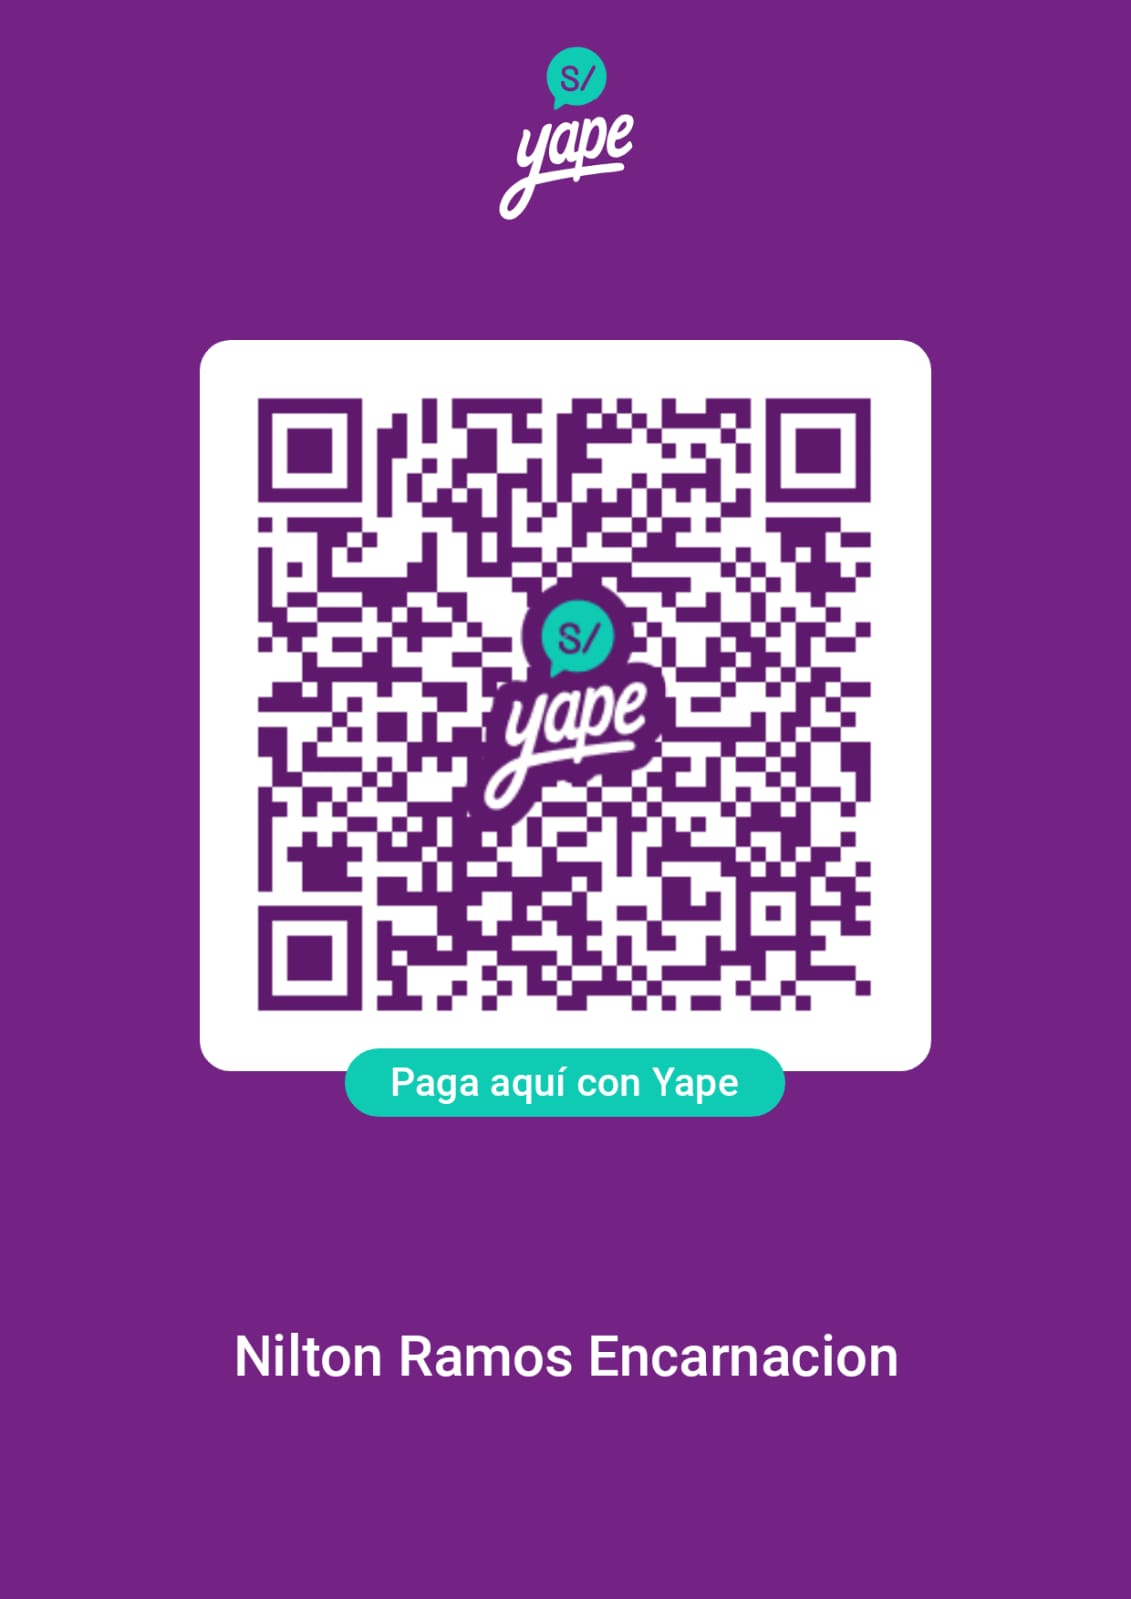
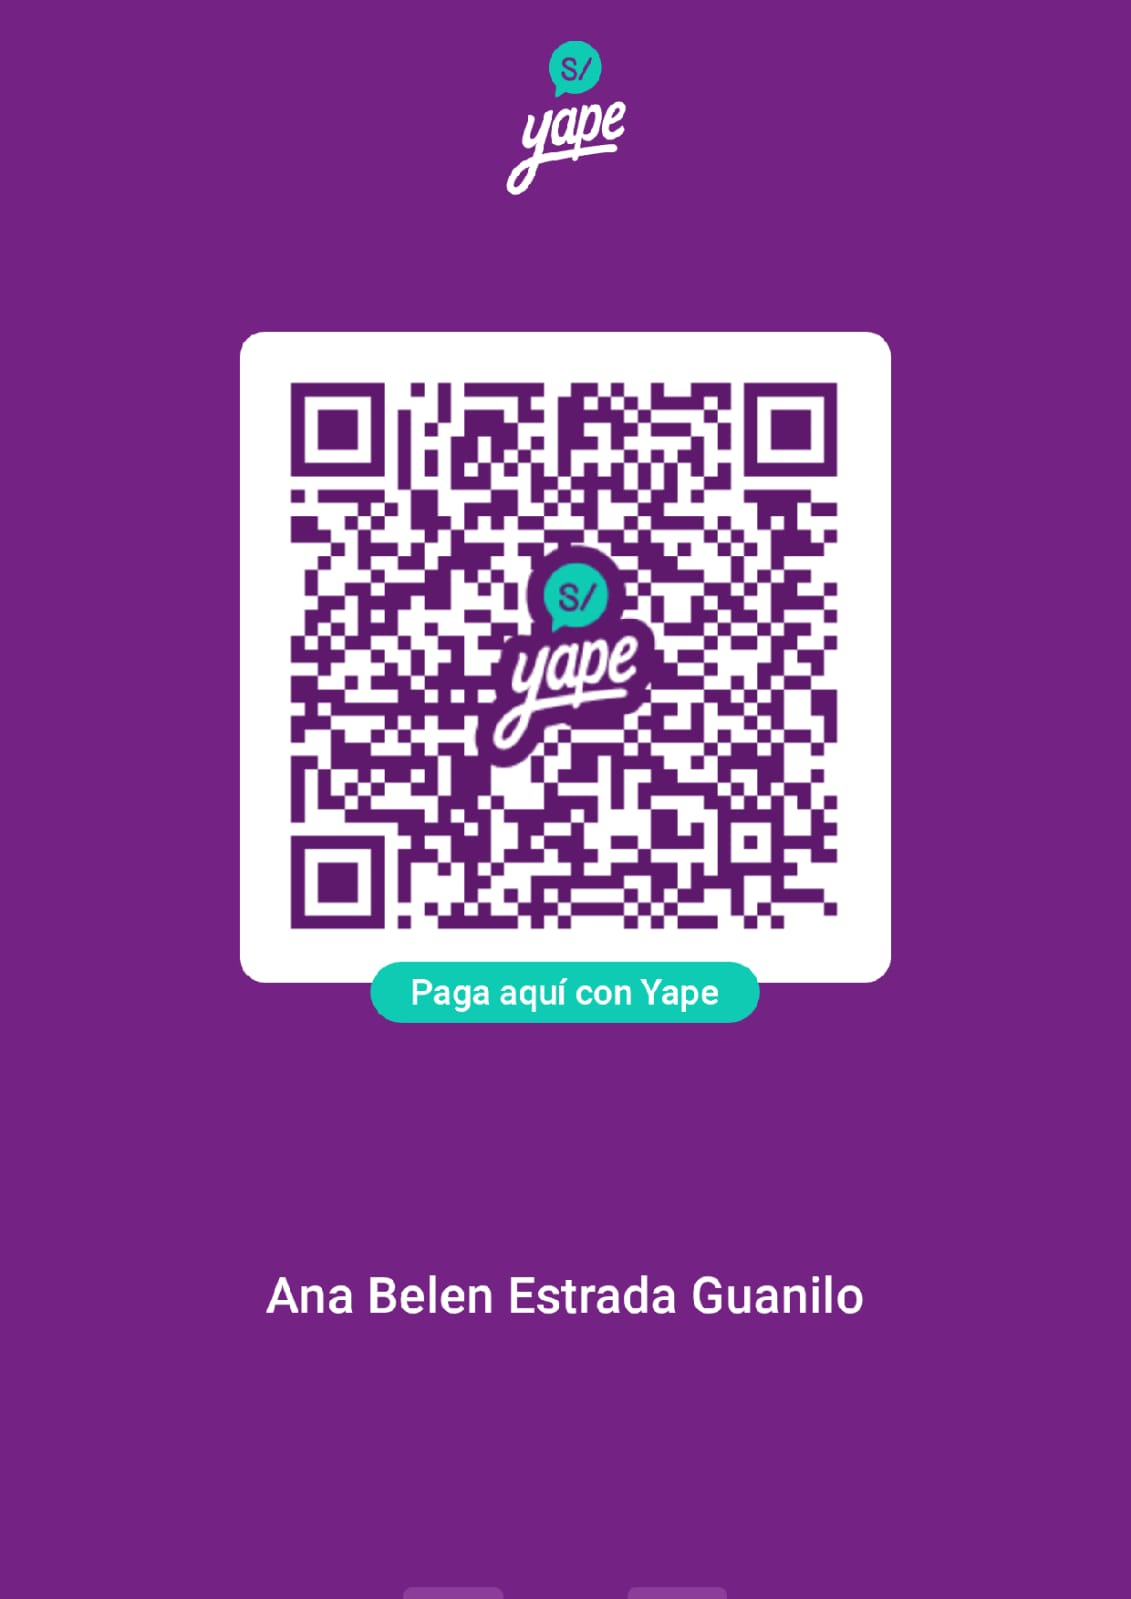
chore: patrocinadores y contacto

diff --git a/src/landing/sections/PartnerSection.tsx b/src/landing/sections/PartnerSection.tsx
@@ -1,15 +1,72 @@
 import React from "react";
 import { Card, CardContent } from "@/components/ui/card";
 import { Button } from "@/components/ui/button";
-import { Handshake, Building2, TrendingUp, Award, Users, Heart } from "lucide-react";
+import { Handshake, Building2, Users, Heart } from "lucide-react";
 import { motion } from "framer-motion";
 
 export default function PartnerSection() {
   const sponsorTiers = [
-    { name: "Patrocinador Oro", logos: 3 },
-    { name: "Patrocinador Plata", logos: 4 },
-    { name: "Aliado", logos: 6 }
+    { 
+      name: "Patrocinador Oro", 
+      size: "large" as const,
+      logos: [
+        { name: "EPISI", logo: "/logos/logo_episi.webp"},
+        { name: "Los Primos", logo: "/logos/los_primos.webp"},
+        { name: "Centro Pastoral", logo: "/logos/logo_pastoral_uns.webp"}
+      ] 
+    },
+    /*
+    { 
+      name: "Patrocinador Plata", 
+      size: "medium" as const,
+      logos: [
+        { name: "Amazon", logo: "/logos/amazon.png"},
+        { name: "Meta", logo: "/logos/meta.png"},
+        { name: "Netflix", logo: "/logos/netflix.png"},
+        { name: "Spotify", logo: "/logos/spotify.png"}
+      ] 
+    },
+    { 
+      name: "Aliado", 
+      size: "small" as const,
+      logos: [
+        { name: "Universidad Nacional del Santa", logo: "/logos/logouns.webp"},
+        { name: "Slack", logo: "/logos/slack.png"},
+        { name: "Figma", logo: "/logos/figma.png"},
+        { name: "Notion", logo: "/logos/notion.png"},
+        { name: "Zoom", logo: "/logos/zoom.png"},
+        { name: "Dropbox", logo: "/logos/dropbox.png"}
+      ] 
+    }*/
   ];
+
+  type SizeType = "large" | "medium" | "small";
+
+  const getMaxSize = (size: SizeType) => {
+    switch(size) {
+      case "large":
+        return { maxWidth: '280px', maxHeight: '160px' };
+      case "medium":
+        return { maxWidth: '200px', maxHeight: '120px' };
+      case "small":
+        return { maxWidth: '150px', maxHeight: '80px' };
+      default:
+        return { maxWidth: '200px', maxHeight: '120px' };
+    }
+  };
+
+  const getPadding = (size: SizeType) => {
+    switch(size) {
+      case "large":
+        return "p-6";
+      case "medium":
+        return "p-5";
+      case "small":
+        return "p-4";
+      default:
+        return "p-4";
+    }
+  };
 
   return (
     <section className="py-20 md:py-28 relative overflow-hidden">
@@ -18,7 +75,7 @@ export default function PartnerSection() {
         <div className="absolute bottom-20 right-10 text-8xl">⭐</div>
       </div>
 
-      <div className="max-w-6xl mx-auto px-4 relative z-10">
+      <div className="max-w-7xl mx-auto px-4 relative z-10">
         <motion.div
           initial={{ opacity: 0, y: 20 }}
           whileInView={{ opacity: 1, y: 0 }}
@@ -78,33 +135,70 @@ export default function PartnerSection() {
           transition={{ duration: 0.6, delay: 0.3 }}
           className="mb-16"
         >
-          <h3 className="text-2xl font-bold text-white text-center mb-8">
+          <h3 className="text-2xl font-bold text-white text-center mb-12">
             Patrocinadores y Aliados 2025
           </h3>
 
-          <div className="space-y-8">
+          <div className="space-y-16">
             {sponsorTiers.map((tier, tierIdx) => (
               <div key={tierIdx}>
-                <div className="text-center mb-4">
-                  <span className="inline-block px-4 py-2 rounded-full bg-white/10 text-white/80 text-sm font-medium">
+                <div className="text-center mb-8">
+                  <span className={`inline-block px-8 py-4 rounded-full text-white/90 text-xl font-bold border ${
+                    tier.size === "large" 
+                      ? "bg-linear-to-r from-amber-500/20 to-yellow-500/20 border-amber-400/40 shadow-lg shadow-amber-500/10" 
+                      : tier.size === "medium"
+                      ? "bg-linear-to-r from-gray-400/20 to-gray-300/20 border-gray-400/40 shadow-md shadow-gray-500/10"
+                      : "bg-linear-to-r from-blue-400/20 to-cyan-400/20 border-blue-400/40 shadow-sm shadow-blue-500/10"
+                  }`}>
                     {tier.name}
                   </span>
                 </div>
-                <div className={`grid ${tier.logos === 3 ? 'grid-cols-3' : tier.logos === 4 ? 'grid-cols-4' : 'grid-cols-6'} gap-4`}>
-                  {Array.from({ length: tier.logos }).map((_, idx) => (
+                <div className={`grid ${
+                  tier.logos.length === 3 ? 'grid-cols-1 md:grid-cols-3' : 
+                  tier.logos.length === 4 ? 'grid-cols-2 md:grid-cols-4' : 
+                  'grid-cols-2 md:grid-cols-3 lg:grid-cols-6'
+                } gap-8 md:gap-10`}>
+                  {tier.logos.map((sponsor, idx) => (
                     <motion.div
                       key={idx}
                       initial={{ opacity: 0, scale: 0.8 }}
                       whileInView={{ opacity: 1, scale: 1 }}
                       viewport={{ once: true }}
                       transition={{ delay: idx * 0.05 }}
-                      className="aspect-video rounded-xl bg-white/10 border border-white/20 hover:bg-white/15 transition-all duration-300 flex items-center justify-center group cursor-pointer hover:scale-105"
+                      className={`aspect-video rounded-2xl bg-white/10 border border-white/20 hover:bg-white/15 transition-all duration-300 flex items-center justify-center group cursor-pointer hover:scale-105 ${
+                        getPadding(tier.size)
+                      } ${
+                        tier.size === "large" 
+                          ? "hover:shadow-2xl hover:shadow-amber-500/20" 
+                          : tier.size === "medium"
+                          ? "hover:shadow-lg hover:shadow-gray-500/20"
+                          : "hover:shadow-md hover:shadow-blue-500/20"
+                      }`}
+                      title={sponsor.name}
                     >
-                      <div className="text-center">
-                        <Building2 className="h-8 w-8 text-white/40 mx-auto mb-2 group-hover:text-white/60 transition-colors" />
-                        <span className="text-xs text-white/50 group-hover:text-white/70 transition-colors">
-                          Logo #{idx + 1}
-                        </span>
+                      <div className="relative w-full h-full flex items-center justify-center">
+                        <img
+                          src={sponsor.logo}
+                          alt={sponsor.name}
+                          className="object-contain transition-all duration-300 group-hover:brightness-110"
+                          style={getMaxSize(tier.size)}
+                        />
+                        
+                        <div 
+                          className="hidden flex-col items-center justify-center text-center w-full h-full"
+                          style={{ display: 'none' }}
+                        >
+                          <Building2 className={`${
+                            tier.size === "large" ? "h-12 w-12" :
+                            tier.size === "medium" ? "h-10 w-10" : "h-8 w-8"
+                          } text-white/40 mx-auto mb-3 group-hover:text-white/60 transition-colors`} />
+                          <span className={`${
+                            tier.size === "large" ? "text-sm" :
+                            tier.size === "medium" ? "text-xs" : "text-xs"
+                          } text-white/50 group-hover:text-white/70 transition-colors line-clamp-2`}>
+                            {sponsor.name}
+                          </span>
+                        </div>
                       </div>
                     </motion.div>
                   ))}
@@ -136,6 +230,33 @@ export default function PartnerSection() {
                 onClick={() => document.getElementById("contact")?.scrollIntoView({ behavior: "smooth" })}
               >
                 Únete como Voluntario
+              </Button>
+            </CardContent>
+          </Card>
+        </motion.div>
+
+        <motion.div
+          initial={{ opacity: 0, y: 20 }}
+          whileInView={{ opacity: 1, y: 0 }}
+          viewport={{ once: true }}
+          transition={{ duration: 0.6, delay: 0.6 }}
+          className="mt-16 text-center"
+        >
+          <Card className="bg-linear-to-r from-green-500/10 to-blue-500/10 border-green-400/20">
+            <CardContent className="p-8">
+              <Heart className="h-12 w-12 text-green-300 mx-auto mb-4" />
+              <h3 className="text-2xl font-bold text-white mb-3">
+                ¿Quieres ser parte de esta misión?
+              </h3>
+              <p className="text-white/75 max-w-2xl mx-auto mb-6">
+                Si tu empresa u organización quiere unirse a nuestra causa y apoyar este proyecto solidario, 
+                contáctanos para conocer las oportunidades de patrocinio disponibles.
+              </p>
+              <Button 
+                className="bg-green-500 hover:bg-green-600 text-white border-green-600"
+                onClick={() => document.getElementById("contact")?.scrollIntoView({ behavior: "smooth" })}
+              >
+                Quiero Ser Patrocinador
               </Button>
             </CardContent>
           </Card>

diff --git a/src/landing/sections/ProposalSection.tsx b/src/landing/sections/ProposalSection.tsx
@@ -38,42 +38,63 @@ export default function ProposalSection() {
 
   const SCHEDULE_ITEMS = [
     {
-      time: "18:00",
+      time: "",
       title: "Apertura & Bienvenida",
-      desc: "Inicio del evento con palabras de la organización y presentación de la causa solidaria.",
+      desc: "Inicio del evento con un mensaje especial de la organización, presentando la causa solidaria, los objetivos del encuentro y dando la bienvenida a todos los asistentes.",
       highlight: true
     },
     {
-      time: "18:20",
-      title: "Presentación de Participantes de Educación",
-      desc: "Estudiantes de la Facultad de Educación compartirán su talento y espíritu navideño en el escenario."
+      time: "",
+      title: "Sonora Santeña",
+      desc: "Show musical a cargo de la reconocida orquesta local, con ritmos festivos, temas navideños y un ambiente lleno de energía para abrir la celebración con alegría."
     },
     {
-      time: "18:45",
-      title: "Orquesta Santeña",
-      desc: "Ritmos alegres y clásicos navideños interpretados por la reconocida orquesta local."
-    },
-    {
-      time: "19:30",
+      time: "",
       title: "Osvalldo Villanueva",
-      desc: "Show musical lleno de energía, con canciones que harán vibrar al público."
+      desc: "Presentación musical en vivo con un repertorio cargado de emoción y melodías que conectan con el espíritu de la temporada."
     },
     {
-      time: "20:15",
+      time: "",
       title: "Diogo Flores & Fernando Cholán (DJ Set)",
-      desc: "Una mezcla moderna con beats festivos y mucho ritmo para disfrutar en familia."
+      desc: "Un DJ set moderno con sonidos electrónicos y beats festivos que llenarán el ambiente de ritmo, diversión y un toque contemporáneo para todos los asistentes."
     },
     {
-      time: "21:00",
+      time: "",
       title: "Fer Burgos",
-      desc: "Presentación acústica con temas navideños y mensajes de esperanza."
+      desc: "Interpretación acústica de temas navideños y canciones inspiradoras, creando un espacio de calma, reflexión y esperanza."
     },
     {
-      time: "21:45",
+      time: "",
+      title: "Daniel Medina",
+      desc: "Actuación musical destacada con interpretaciones llenas de sensibilidad y un estilo que invita a disfrutar de la magia de la música en Navidad."
+    },
+    {
+      time: "",
+      title: "Participantes de Educación",
+      desc: "Presentación artística realizada por estudiantes, quienes compartirán bailes navideños llenos de creatividad, entusiasmo y espíritu festivo."
+    },
+    {
+      time: "",
+      title: "Marcos",
+      desc: "Interpretación vocal con un repertorio especial preparado para la ocasión, lleno de melodías que capturan el encanto de estas fiestas."
+    },
+    {
+      time: "",
+      title: "Maribel Astete",
+      desc: "Actuación musical con una voz cálida y expresiva, interpretando canciones que celebran la unión, la familia y la Navidad."
+    },
+    {
+      time: "",
+      title: "Ángel Oyola",
+      desc: "Presentación con un estilo vocal único, compartiendo canciones que transmiten alegría, emoción y el verdadero espíritu navideño."
+    },
+    {
+      time: "",
       title: "Cierre y Agradecimientos",
-      desc: "Despedida, agradecimientos a los asistentes y mensaje final de unidad y solidaridad."
+      desc: "Mensaje final de despedida en el que se agradece a los participantes, artistas y asistentes por su apoyo, destacando el valor de la solidaridad y el sentido comunitario del evento."
     }
   ];
+
 
   const { downloadPDF, isGenerating } = usePDFDownload({
     onSuccess: () => console.log('PDF descargado exitosamente'),

diff --git a/src/landing/sections/ContactSection.tsx b/src/landing/sections/ContactSection.tsx
@@ -163,9 +163,9 @@ export default function ContactSection() {
   ];
 
   const socialLinks = [
-    { icon: Instagram, label: "Instagram", link: "https://instagram.com/navifest", handle: "@navifest" },
-    { icon: Facebook, label: "Facebook", link: "https://facebook.com/navifest", handle: "NaviFest Oficial" },
-    { icon: Linkedin, label: "LinkedIn", link: "https://linkedin.com/company/navifest", handle: "NaviFest" }
+    { icon: Instagram, label: "Instagram", link: "https://instagram.com", handle: "@navifest" },
+    { icon: Facebook, label: "Facebook", link: "https://facebook.com", handle: "NaviFest Oficial" },
+    { icon: Linkedin, label: "LinkedIn", link: "https://linkedin.com/company/", handle: "NaviFest" }
   ];
 
   const tipoOpciones = [

diff --git a/src/landing/sections/DonateSection.tsx b/src/landing/sections/DonateSection.tsx
@@ -69,10 +69,10 @@ export default function DonateSection() {
                 
                 <div className="text-center mt-4">
                   <p className="text-red-900/70 text-sm font-medium">
-                    Yapea al: <span className="text-red-900 font-bold">951 011 604</span>
+                    Yapea al: <span className="text-red-900 font-bold">900 749 214</span>
                   </p>
                   <p className="text-red-900/60 text-xs mt-1">
-                    (Nilton Ramos - Centro Pastoral Universitario UNS)
+                    (Ana Belen Estrada Guanilo - Centro Pastoral Universitario UNS)
                   </p>
                 </div>
               </div>
